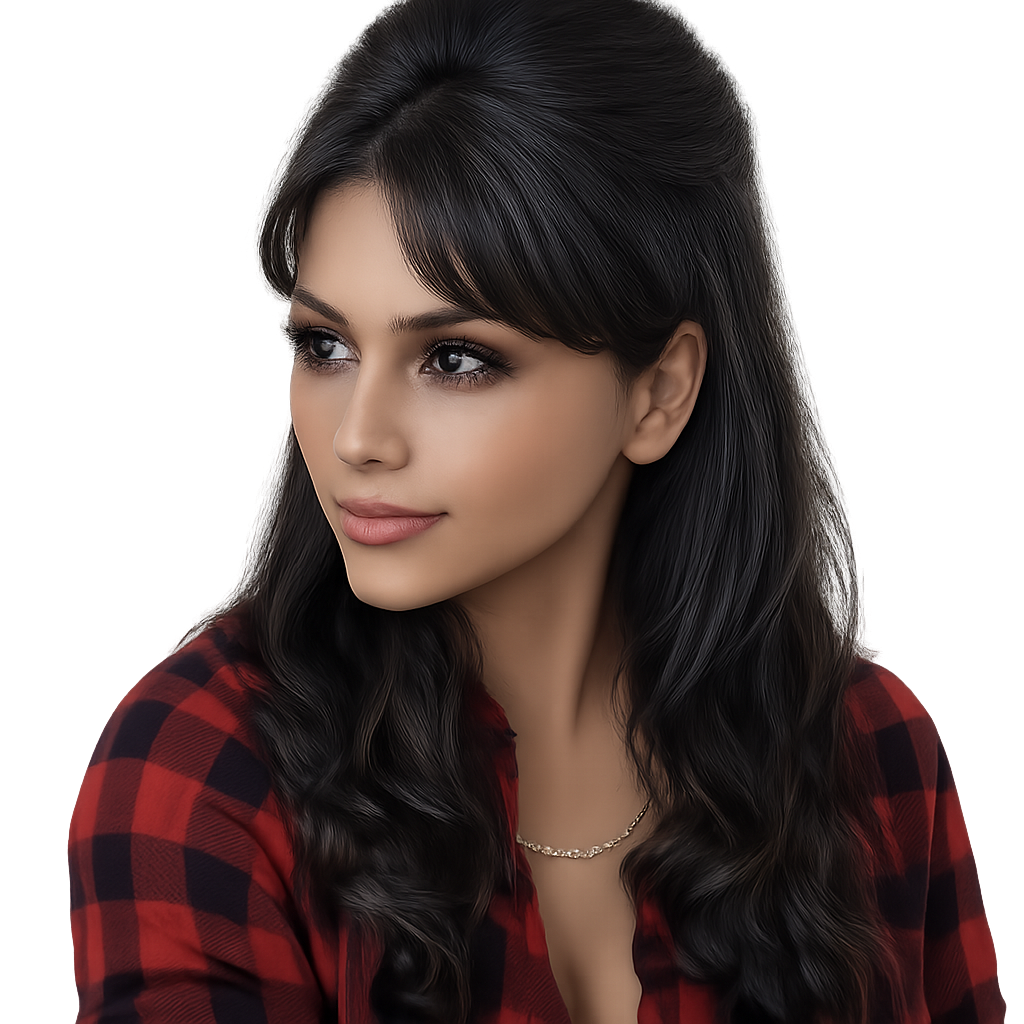
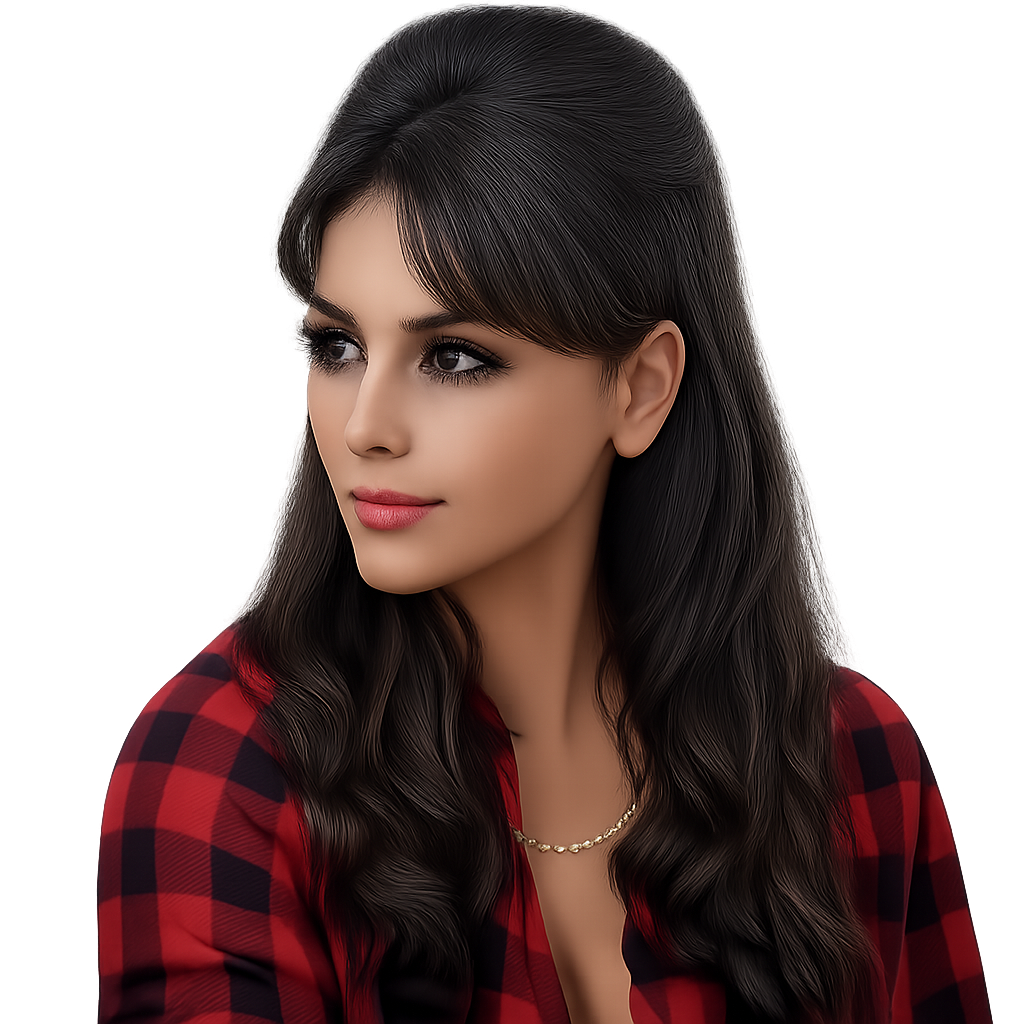
updte

Changed region(s): [[0.0625, 0.0, 1.0, 1.0], [0.6562, 0.8438, 0.7188, 0.875]]

diff --git a/index.html b/index.html
@@ -24,7 +24,7 @@
             <ul>
                 <li><a href="#" class="nav-link active" data-section="home">Home</a></li>
                 <li><a href="#" class="nav-link" data-section="about">About</a></li>
-                <li><a href="#" class="nav-link" data-section="projects">Projects</a></li>
+                <li><a href="#" class="nav-link" data-section="projects">Certificates</a></li>
                 <li><a href="#" class="nav-link" data-section="contact">Contact</a></li>
             </ul>
         </nav>
@@ -42,7 +42,7 @@
                     <i class="fas fa-user"></i> About & Skills
                 </button>
                 <button class="nav-btn" data-section="projects">
-                    <i class="fas fa-code"></i> Projects
+                    <i class="fas fa-code"></i> Certificates
                 </button>
                 <button class="nav-btn" data-section="contact">
                     <i class="fas fa-envelope"></i> Contact
@@ -51,7 +51,7 @@
         </div>
         <div class="hero-image">
             <div class="img-border"></div>
-            <img src="/assert/images/profile.png" alt="Alex Chen - E-Ink Designer" class="profile-img">
+            <img src="/assert/images/profile1.png" alt="Alex Chen - E-Ink Designer" class="profile-img">
         </div>
     </section>
     
@@ -75,7 +75,28 @@
                 </p>
 
             </div>
-            
+                   
+            <div class="edu-content">
+      <h3 style="margin-bottom: 25px; font-weight: normal; color: var(--accent-blue);">Education</h3>
+                <ul class="skills-list">
+                    <li>
+                        <span class="skill-name">New Inspire tech solutions</span>
+                        <span class="years">3-Months</span>
+                        <span class="skill-level">Field engineer</span>
+                    </li>
+                    <li>
+                        <span class="skill-name">Saveetha school of engineering</span>
+                        <span class="years">7-Months</span>
+                        <span class="skill-level">Devops engineer</spthemeTogglean>
+                    </li>
+                    <li>
+                        <span class="skill-name">Dhanalakshmi college <br>of engineering</span>
+                        <span class="years">1.5-years</span>
+                        <span class="skill-level">Devops</span>
+                    </li>
+                </ul>
+    </div>
+  </div>
         </div>
 
         <div class="card-grid">
@@ -142,33 +163,27 @@
     
     <!-- Projects Section - Hidden by default -->
     <section id="projects" class="content-section">
-        <h2 class="section-title">E-Ink Projects</h2>
+        <h2 class="section-title">Certificates</h2>
         <div class="projects-grid">
             <div class="project-card">
-                <h3>E-Ink Dashboard</h3>
-                <p>A productivity dashboard designed for e-ink tablets, featuring minimal color accents for priority indicators and maximum readability in all lighting conditions.</p>
+                <h3>Cert-1</h3>
+                <p>Lorem Ipsum is simply dummy text of the printing and typesetting industry.</p>
                 <div class="project-tags">
-                    <span class="blue">UI Design</span>
-                    <span>E-Ink</span>
-                    <span>React</span>
+                    <a href="#"><img src="/assert/images/cert.jpg" alt="certificate1" class="profile-img" style="width:100%; height:auto; border-radius:8px; margin-top:10px;"></a>
                 </div>
             </div>
             <div class="project-card">
-                <h3>Monochrome Weather App</h3>
-                <p>A weather application that uses subtle blue accents for temperature indicators while maintaining an e-ink friendly interface with high contrast visuals.</p>
+                <h3>Cert-1</h3>
+                <p>Lorem Ipsum is simply dummy text of the printing and typesetting industry.</p>
                 <div class="project-tags">
-                    <span>UX Design</span>
-                    <span class="blue">JavaScript</span>
-                    <span>API Integration</span>
+                    <a href="#"><img src="/assert/images/cert.jpg" alt="certificate1" class="profile-img" style="width:100%; height:auto; border-radius:8px; margin-top:10px;"></a>
                 </div>
             </div>
             <div class="project-card">
-                <h3>Readability-Focused Reader</h3>
-                <p>An e-book reader interface that uses minimal color accents for interactive elements while maintaining the reading-focused experience of e-ink displays.</p>
+                <h3>Cert-1</h3>
+                <p>Lorem Ipsum is simply dummy text of the printing and typesetting industry.</p>
                 <div class="project-tags">
-                    <span>UI/UX</span>
-                    <span>Typography</span>
-                    <span class="blue">Accessibility</span>
+                    <a href="#"><img src="/assert/images/cert.jpg" alt="certificate1" class="profile-img" style="width:100%; height:auto; border-radius:8px; margin-top:10px;"></a>
                 </div>
             </div>
         </div>
@@ -184,14 +199,14 @@
                     <i class="fas fa-envelope"></i>
                     <div class="contact-item-content">
                         <h3>Email</h3>
-                        <p>ramya2002@proton.me</p>
+                        <a href="mailto:ramya2002@proton.me">ramya2002@proton.me</a>
                     </div>
                 </div>
                 <div class="contact-item">
                     <i class="fas fa-phone"></i>
                     <div class="contact-item-content">
                         <h3>Phone</h3>
-                        <p>+919345841108</p>
+                        <a href="tel:+919345481193">+91 9345481193</a>
                     </div>
                 </div>
                 <div class="contact-item">
@@ -228,12 +243,12 @@
     <!-- Footer -->
     <footer>
         <div class="social-links">
-            <a href="https://github.com/yokesh1234"><i class="fab fa-github"></i></a>
+            <a href="#"><i class="fab fa-github"></i></a>
             <a href="#"><i class="fab fa-codepen"></i></a>
             <a href="#"><i class="fab fa-linkedin"></i></a>
             <a href="#"><i class="fas fa-blog"></i></a>
         </div>
-        <p class="copyright">&copy; 2023 Ramya. E-Ink Design Portfolio.</p>
+        <p class="copyright">&copy; 2023 Alex Chen. E-Ink Design Portfolio.</p>
         <p class="copyright" style="margin-top: 5px; font-size: 0.8rem;">Click navigation links to toggle sections</p>
     </footer>
     

diff --git a/assert/css/style.css b/assert/css/style.css
@@ -203,7 +203,6 @@
         .profile-img {
             width: 100%;
             height: auto;
-            filter:hue-rotate(24deg);
             border-radius: 2px;
             border: 1px solid var(--e-ink-border);
             transition: filter var(--transition-slow);
@@ -300,7 +299,8 @@
         /* About Section */
         .about-content {
             display: grid;
-            gap: 60px;
+            gap: 50px;
+            grid-template-columns: repeat(2, 1fr);
         }
 
         .about-text p {
@@ -683,14 +683,8 @@
   border-width: thin;
 }
 
-.card img {
-  width: 100%; /* Makes the image fill the width of the card */
-  height: auto;
-  display: block;
-}
-
 .card-content {
-  padding: 16px;
+  padding: 40px 10px 0px 0px;
 }
 
 .card-content h3 {
@@ -705,6 +699,7 @@
   padding: 8px 16px;
   text-decoration: none;
   border-radius: 4px;
+  
 }
 
 /* Responsive design: switches to one column on small screens. */
@@ -714,3 +709,42 @@
   }
 }
 
+
+
+.edu-content:hover {
+  transform: translateY(-5px); /* Lifts the card slightly on hover */
+  border-color: #4a6fa5;
+  border-style: groove;
+  padding: auto;
+  border-width: thin;
+}
+
+.edu-content {
+  padding: 40px 10px 0px 0px;
+}
+
+.edu-content h3 {
+  margin-top: 0;
+}
+
+.edu-content a {
+  display: inline-block;
+  margin-top: 10px;
+  background-color: var(--e-ink-bg);
+  color: var(--accent-blue);
+  padding: 8px 16px;
+  text-decoration: none;
+  border-radius: 4px;
+  
+}
+
+/* Responsive design: switches to one column on small screens. */
+@media (max-width: 600px) {
+  .edu-grid {
+    grid-template-columns: 1fr; /* One column takes up the full width */
+  }
+}
+.contact-item-content a {
+    color: var(--e-ink-text);
+    text-decoration: none;
+}
